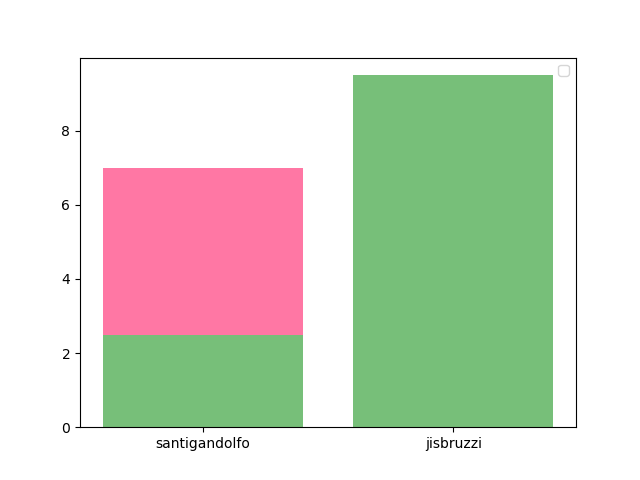
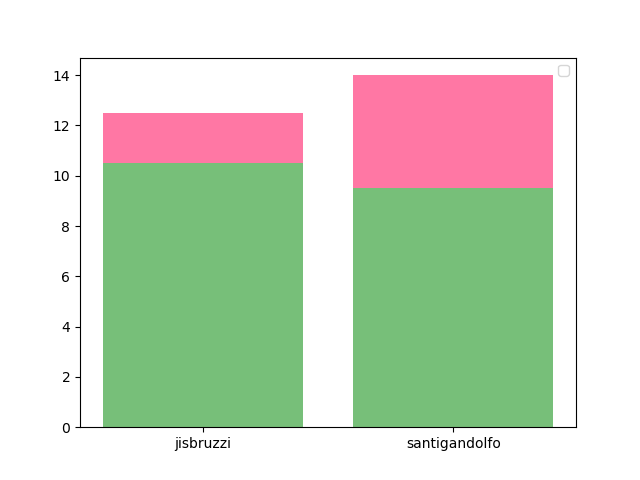
AGrego graficos de nuevo

diff --git a/scrap-horas/visu-horas.py b/scrap-horas/visu-horas.py
@@ -11,7 +11,7 @@ for issue in full_explanations:
     explanations[issue]={}
     efforts=explanations[issue]
     for effort in full_explanations[issue]:
-        if effort["date"]<'2018-10-23T00:00:00Z':
+        if effort["date"]<'2018-10-30T00:00:00Z':
             continue
         print("===========")
         print(issue)
